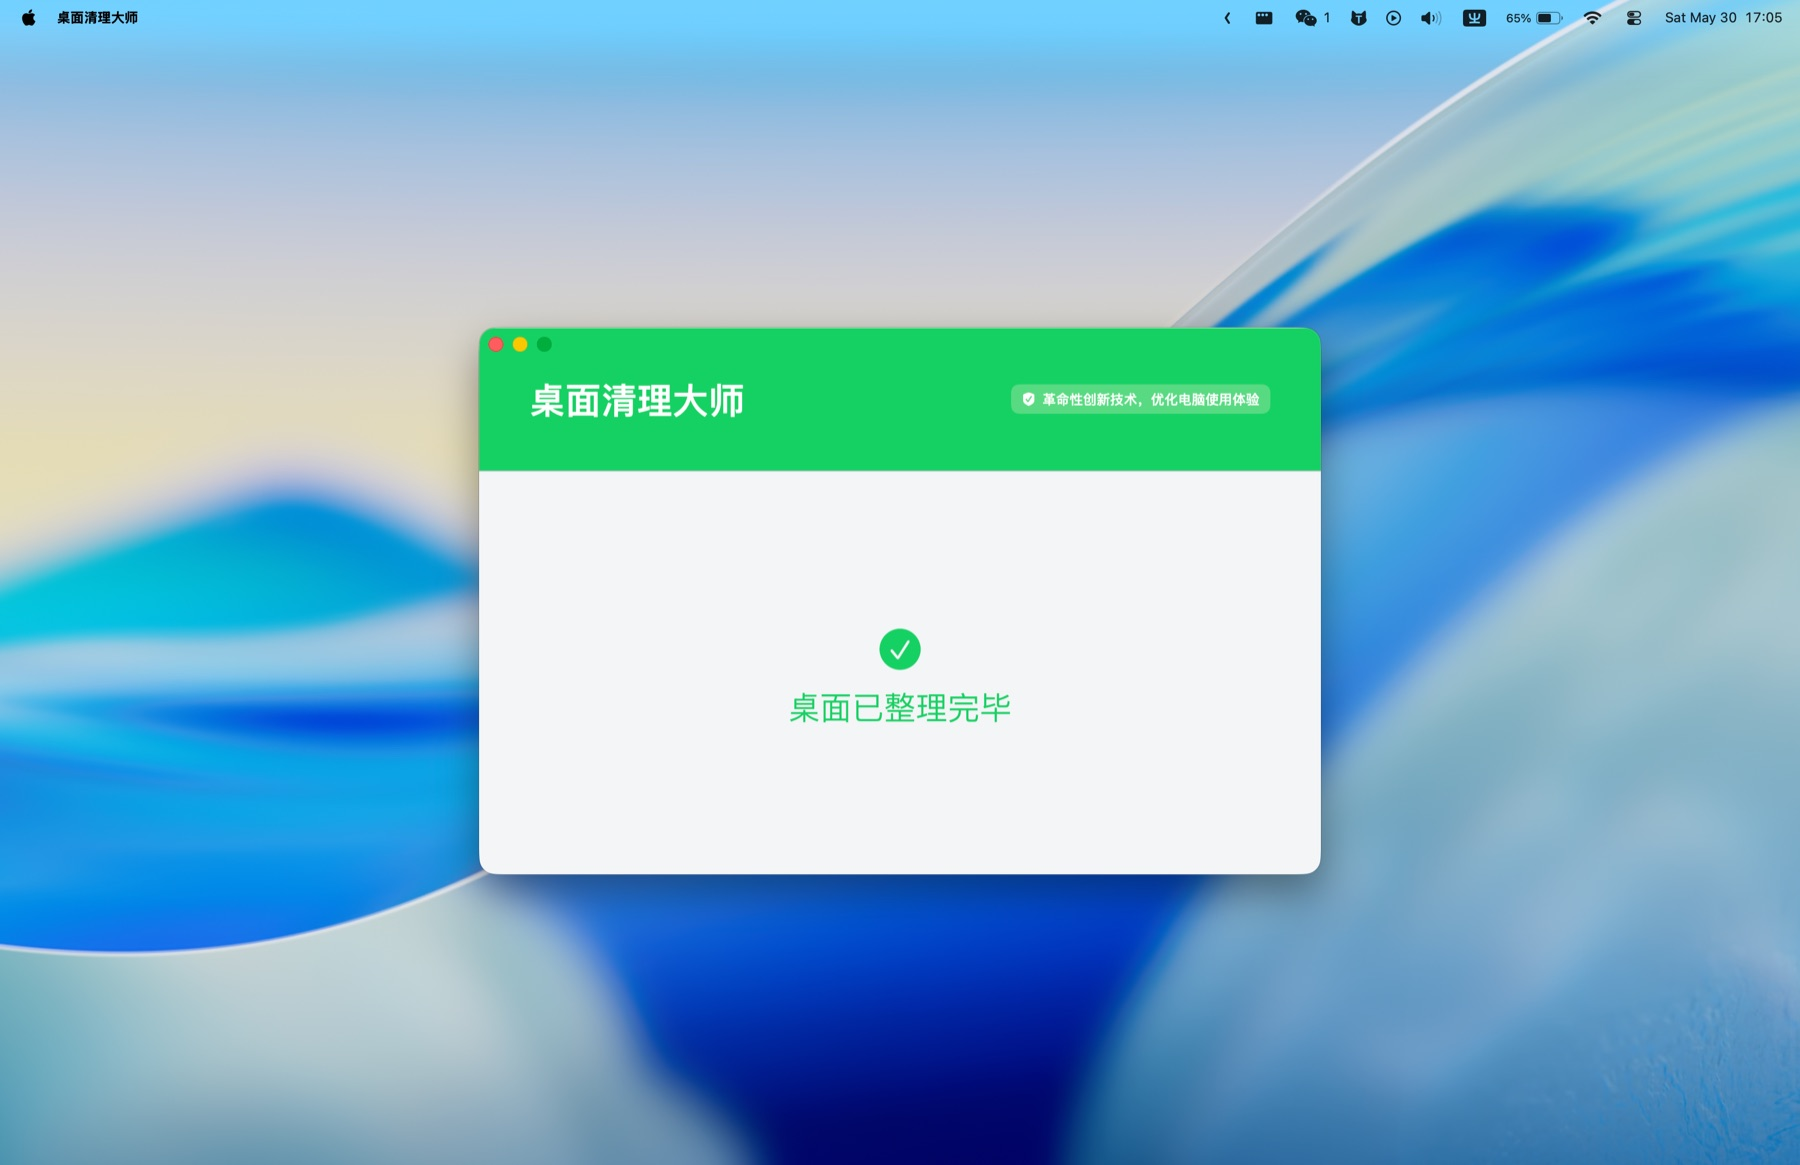
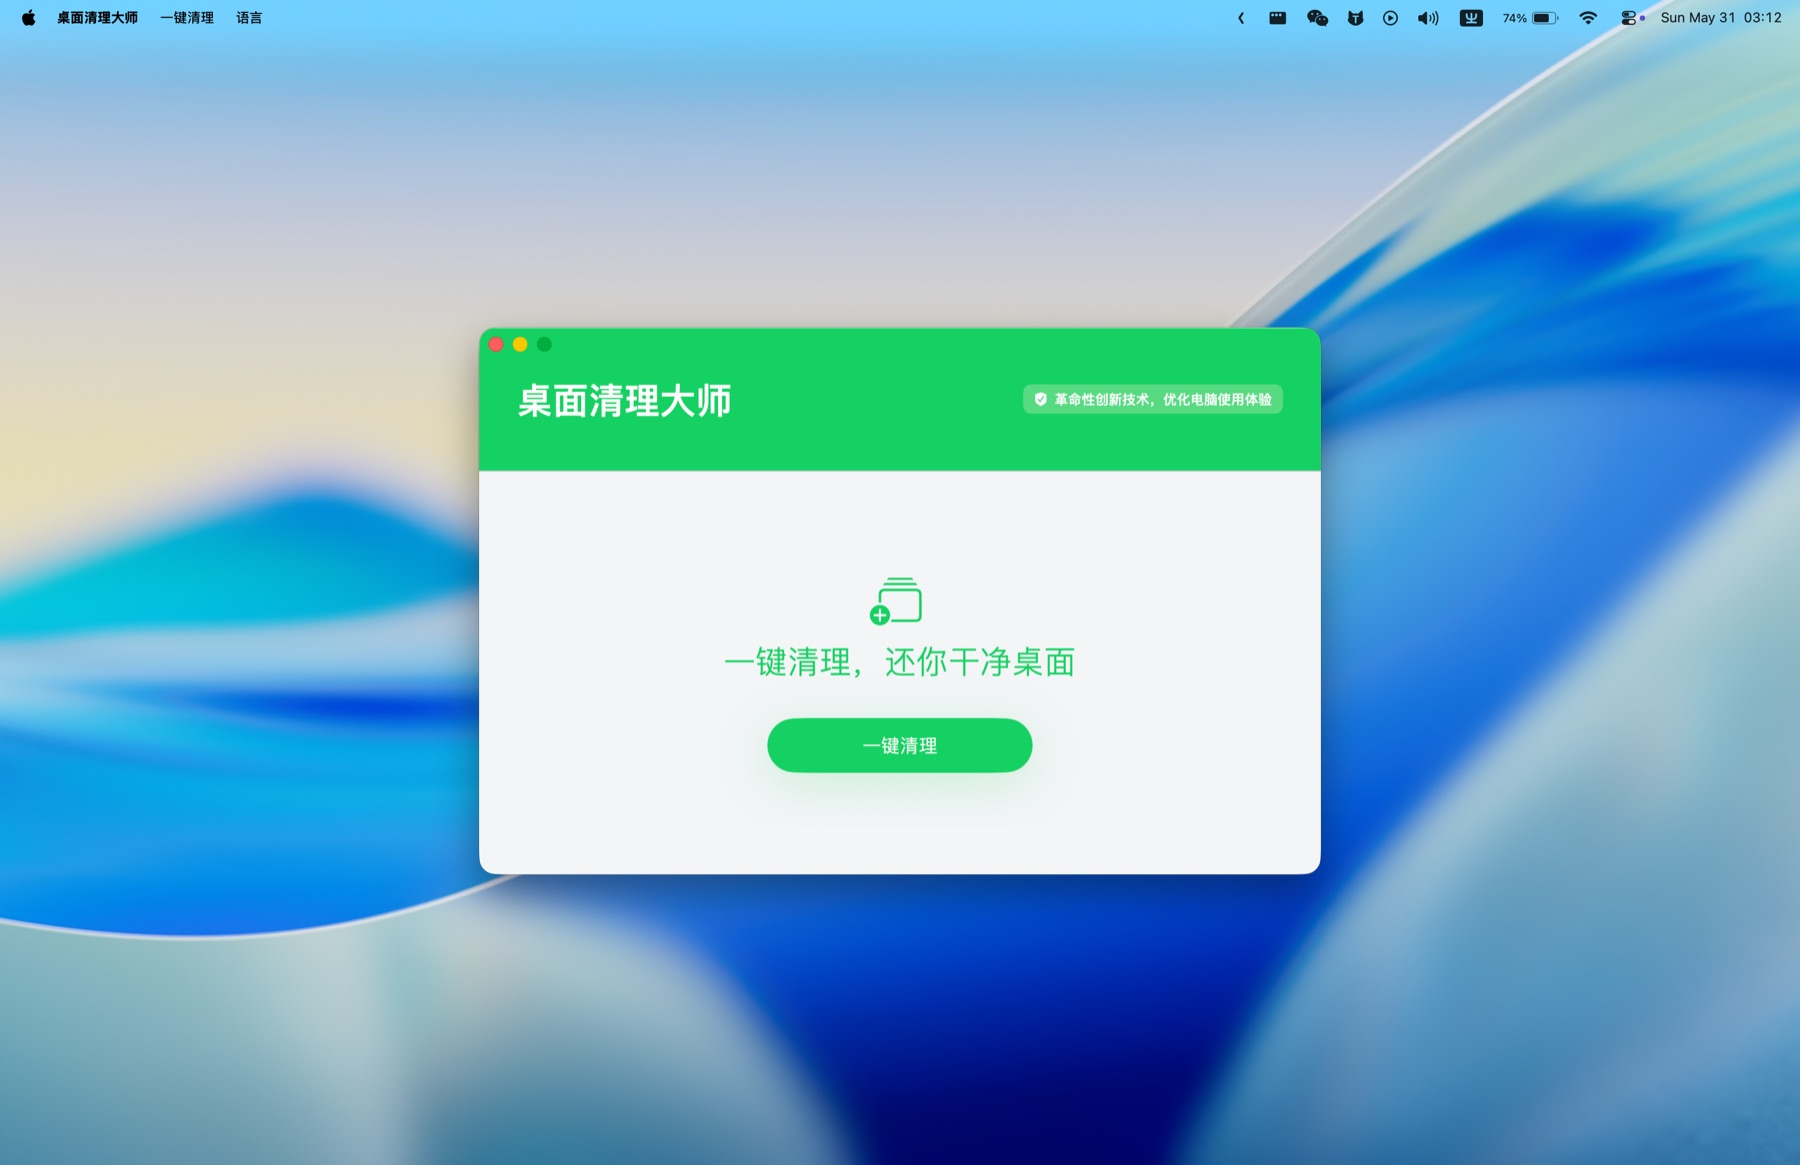
fix(app): preserve focus after cleanup
Restart Finder in the background, restore the app window after cleanup and restore flows, show the processed icon count in the completion state, and expand README packaging and permission notes with the refreshed screenshot.

diff --git a/Sources/DeskMagnetApp/AppLocalization.swift b/Sources/DeskMagnetApp/AppLocalization.swift
@@ -62,7 +62,7 @@ struct AppStrings: Equatable {
     let idleTitle: String
     let cleanButton: String
     let cleaningTitle: String
-    let attachedTitle: String
+    let attachedTitleFormat: String
     let restoringTitle: String
     let restoringSubtitle: String
     let failedTitle: String
@@ -89,7 +89,7 @@ struct AppStrings: Equatable {
                 idleTitle: "一键清理，还你干净桌面",
                 cleanButton: "一键清理",
                 cleaningTitle: "正在清理桌面...",
-                attachedTitle: "桌面已整理完毕",
+                attachedTitleFormat: "清理完成，已处理 %d 个图标",
                 restoringTitle: "正在恢复桌面",
                 restoringSubtitle: "图标和 Finder 设置会回到启动前",
                 failedTitle: "清理失败",
@@ -114,7 +114,7 @@ struct AppStrings: Equatable {
                 idleTitle: "一鍵清理，還你乾淨桌面",
                 cleanButton: "一鍵清理",
                 cleaningTitle: "正在清理桌面...",
-                attachedTitle: "桌面已整理完畢",
+                attachedTitleFormat: "清理完成，已處理 %d 個圖示",
                 restoringTitle: "正在恢復桌面",
                 restoringSubtitle: "圖示和 Finder 設定會回到啟動前",
                 failedTitle: "清理失敗",
@@ -139,7 +139,7 @@ struct AppStrings: Equatable {
                 idleTitle: "Clear your desktop in one click",
                 cleanButton: "Clean Desktop",
                 cleaningTitle: "Cleaning desktop...",
-                attachedTitle: "Desktop cleaned",
+                attachedTitleFormat: "Cleanup complete, processed %d icons",
                 restoringTitle: "Restoring desktop",
                 restoringSubtitle: "Icons and Finder settings return to the launch state",
                 failedTitle: "Cleanup failed",
@@ -164,7 +164,7 @@ struct AppStrings: Equatable {
                 idleTitle: "ワンクリックで、デスクトップをきれいに",
                 cleanButton: "一括整理",
                 cleaningTitle: "デスクトップを整理中...",
-                attachedTitle: "デスクトップを整理しました",
+                attachedTitleFormat: "整理完了、%d 個のアイコンを処理しました",
                 restoringTitle: "デスクトップを復元中",
                 restoringSubtitle: "アイコンと Finder 設定を起動前に戻します",
                 failedTitle: "整理に失敗しました",
@@ -189,7 +189,7 @@ struct AppStrings: Equatable {
                 idleTitle: "한 번에 정리하고 깨끗한 데스크톱으로",
                 cleanButton: "한 번에 정리",
                 cleaningTitle: "데스크톱 정리 중...",
-                attachedTitle: "데스크톱 정리 완료",
+                attachedTitleFormat: "정리 완료, 아이콘 %d개 처리됨",
                 restoringTitle: "데스크톱 복원 중",
                 restoringSubtitle: "아이콘과 Finder 설정이 실행 전 상태로 돌아갑니다",
                 failedTitle: "정리 실패",
@@ -208,6 +208,10 @@ struct AppStrings: Equatable {
                 permissionFootnote: "DeskMagnet 이 Finder 를 제어하도록 허용하세요"
             )
         }
+    }
+
+    func attachedTitle(iconCount: Int) -> String {
+        String(format: attachedTitleFormat, iconCount)
     }
 }
 

diff --git a/Tests/DeskMagnetCoreTests/P0WorkflowTests.swift b/Tests/DeskMagnetCoreTests/P0WorkflowTests.swift
@@ -55,6 +55,17 @@ struct P0WorkflowTests {
         }
         #expect(arrangementAttempts.count == 2)
     }
+
+    @Test("Finder restarts in background to preserve app focus")
+    func settingsManagerOpensFinderWithoutActivation() async throws {
+        let shell = RecordingShellRunner.arrangementSucceedsAfterRetry()
+        let manager = FinderSettingsManager(shell: shell)
+
+        try await manager.enterCompatibilityMode(snapshotURL: URL(fileURLWithPath: "/tmp/DeskMagnetTests/finder-before.plist"))
+
+        #expect(shell.commands.contains(["/usr/bin/open", "-g", "-a", "Finder"]))
+        #expect(!shell.commands.contains(["/usr/bin/open", "-a", "Finder"]))
+    }
 }
 
 private final class RecordingShellRunner: ShellRunning, @unchecked Sendable {

diff --git a/Sources/DeskMagnetApp/AppDelegate.swift b/Sources/DeskMagnetApp/AppDelegate.swift
@@ -1,6 +1,6 @@
 /**
  * [INPUT]: 依赖 AppKit/SwiftUI/Combine 创建 NSWindow 和主菜单，依赖 DeskMagnetCore.AppCoordinator 恢复未完成状态。
- * [OUTPUT]: 提供 AppDelegate，管理固定尺寸亮色主窗口、顶层应用/清理/语言菜单、启动居中、关闭自动恢复、启动恢复提示。
+ * [OUTPUT]: 提供 AppDelegate，管理固定尺寸亮色主窗口、顶层应用/清理/语言菜单、启动居中、清理后焦点恢复、关闭自动恢复、启动恢复提示。
  * [POS]: DeskMagnetApp 的生命周期控制器，连接 macOS 窗口事件与 DeskMagnetViewModel。
  * [PROTOCOL]: 变更时更新此头部，然后检查 CLAUDE.md
  */
@@ -55,6 +55,10 @@ final class AppDelegate: NSObject, NSApplicationDelegate, NSWindowDelegate {
             window.deskMagnetCenterOnMainScreen()
             window.delegate = self
             model.windowFrameProvider = { [weak window] in window?.deskMagnetFrame(converter: converter) }
+            model.focusRestorer = { [weak window] in
+                window?.makeKeyAndOrderFront(nil)
+                NSApplication.shared.activate(ignoringOtherApps: true)
+            }
             self.window = window
             self.viewModel = model
             configureMainMenu()

diff --git a/Sources/DeskMagnetApp/DeskMagnetViewModel.swift b/Sources/DeskMagnetApp/DeskMagnetViewModel.swift
@@ -1,6 +1,6 @@
 /**
  * [INPUT]: 依赖 Foundation、SwiftUI Observation、AppLocalization 和 DeskMagnetCore.AppCoordinator。
- * [OUTPUT]: 提供 DeskMagnetViewModel，暴露窗口状态、按钮动作、关闭恢复动作、拖动同步动作。
+ * [OUTPUT]: 提供 DeskMagnetViewModel，暴露窗口状态、按钮动作、关闭恢复动作、拖动同步动作和焦点恢复回调。
  * [POS]: DeskMagnetApp 的状态模型，隔离 UI 文案与核心 Finder 编排。
  * [PROTOCOL]: 变更时更新此头部，然后检查 CLAUDE.md
  */
@@ -21,6 +21,7 @@ final class DeskMagnetViewModel: ObservableObject {
     @Published private(set) var phase: Phase = .idle
     @Published private(set) var detailNote: String?
     var windowFrameProvider: (() -> WindowFrame?)?
+    var focusRestorer: (() -> Void)?
 
     private let coordinator: AppCoordinator
     private let languageStore: AppLanguageStore
@@ -116,6 +117,7 @@ final class DeskMagnetViewModel: ObservableObject {
             phase = .failed(languageStore.strings.windowPositionUnavailable)
             return
         }
+        defer { focusRestorer?() }
         phase = .working(0.25)
         do {
             let state = try await coordinator.attach(windowFrame: frame)
@@ -137,6 +139,7 @@ final class DeskMagnetViewModel: ObservableObject {
     }
 
     private func restoreDesktop() async -> Bool {
+        defer { focusRestorer?() }
         phase = .restoring
         do {
             _ = try await coordinator.restore()

diff --git a/Sources/DeskMagnetApp/ContentView.swift b/Sources/DeskMagnetApp/ContentView.swift
@@ -182,9 +182,9 @@ private struct StatusSection: View {
                 symbolName: "wand.and.stars",
                 color: DeskMagnetPalette.primary
             )
-        case .attached:
+        case let .attached(count):
             PhasePresentation(
-                title: strings.attachedTitle,
+                title: strings.attachedTitle(iconCount: count),
                 subtitle: "",
                 symbolName: "checkmark.circle.fill",
                 color: DeskMagnetPalette.primary

diff --git a/Sources/DeskMagnetCore/Automation/FinderSettingsManager.swift b/Sources/DeskMagnetCore/Automation/FinderSettingsManager.swift
@@ -1,5 +1,5 @@
 /**
- * [INPUT]: 依赖 ShellRunning 执行 defaults、osascript、open、pgrep，依赖轮询等待 Finder 状态。
+ * [INPUT]: 依赖 ShellRunning 执行 defaults、osascript、open -g、pgrep，依赖轮询等待 Finder 状态。
  * [OUTPUT]: 对外提供 FinderSettingsManager.snapshotFinderSettings()、enterCompatibilityMode(snapshotURL:)、restoreFinderSettings(snapshotURL:)。
  * [POS]: DeskMagnetCore 的 Finder 偏好生命周期管理器，保证修改前快照、失败后可恢复。
  * [PROTOCOL]: 变更时更新此头部，然后检查 CLAUDE.md
@@ -39,7 +39,7 @@ public final class FinderSettingsManager: Sendable {
     }
 
     private func openFinderAndWait() async throws {
-        _ = try await shell.checkedRun("/usr/bin/open", ["-a", "Finder"])
+        _ = try await shell.checkedRun("/usr/bin/open", ["-g", "-a", "Finder"])
         try await waitForFinder(running: true, timeout: 10)
     }
 

diff --git a/README.en.md b/README.en.md
@@ -23,6 +23,12 @@ DeskMagnet only changes Finder desktop icon display coordinates and temporary Fi
 
 On first real cleanup, macOS asks whether DeskMagnet may control Finder. If permission is denied, the app shows an Automation permission error. You can manage it later in System Settings -> Privacy & Security -> Automation.
 
+## Menus and Language
+
+The app follows the system language by default. You can also switch languages from the macOS menu bar: Simplified Chinese, Traditional Chinese, English, Japanese, and Korean.
+
+The cleanup action is exposed as its own top-level menu. The main app menu keeps Restore Desktop and Quit. If Finder steals focus during cleanup, the app brings its main window back when the operation finishes.
+
 ## Local Development
 
 ```bash
@@ -53,6 +59,24 @@ open build/DeskMagnet.app
 ```
 
 The current artifact is an ad-hoc signed `.app`, not an Apple Developer ID signed or notarized build. Public distribution still needs a Developer ID certificate, hardened runtime, `notarytool`, and stapler validation.
+
+## GitHub Runner Packaging
+
+GitHub Actions uses `.github/workflows/build.yml`. Regular pushes and pull requests only run `swift build --product DeskMagnetApp` and `swift test`.
+
+Only two paths create an `.app.zip` artifact:
+
+- Run the workflow manually with `workflow_dispatch`.
+- Push a `v*` tag, for example `v0.1.0`.
+
+The packaging job uploads a `DeskMagnet-macOS` artifact containing `DeskMagnet.app.zip`. CI and local builds share `Scripts/build-app.sh`, so a local packaging pass should match the Runner behavior.
+
+## Known Limitations
+
+- macOS only.
+- Artifacts are ad-hoc signed, without Developer ID signing or notarization.
+- The first real cleanup requires Finder Automation permission.
+- With many desktop icons, drag syncing is throttled and a final sync runs after the drag ends.
 
 ## Project Structure
 

diff --git a/CLAUDE.md b/CLAUDE.md
@@ -23,8 +23,8 @@ Tests/ - Swift Testing 测试代码 (1子目录: DeskMagnetCoreTests)
 <config>
 `.gitignore` - 忽略 SwiftPM 构建产物、macOS 元数据与 Xcode 用户状态
 Package.swift - SwiftPM 包定义，暴露 DeskMagnetCore library 与 deskmagnet executable
-README.md - 中文入口文档，说明产品边界、本地构建、运行方式与创意来源
-README.en.md - 英文入口文档，与 README.md 互链并说明产品边界、本地构建与创意来源
+README.md - 中文入口文档，说明产品边界、菜单语言、本地构建、Runner 打包、限制与创意来源
+README.en.md - 英文入口文档，与 README.md 互链并说明产品边界、菜单语言、本地构建、Runner 打包、限制与创意来源
 </config>
 
 架构决策:
@@ -52,5 +52,6 @@ P0 先做命令行验证器，不做 UI；Finder 真实副作用被 ShellRunning
 2026-05-30: 将 bundle 展示名改为“桌面清理大师”，并禁用窗口位置恢复以保证每次启动居中。
 2026-05-30: 补齐 macOS 应用菜单，一键清理/还原/退出接入现有动作，并加入中繁英日韩语言切换。
 2026-05-31: 将软件名纳入本地化，拆出顶层清理/语言菜单，新增英文 README 并补充创意来源说明。
[phone redacted]: README 补齐 Runner 打包、权限、菜单语言与已知限制；Finder 后台重启并在清理后恢复 App 焦点。
 
 法则: 极简·稳定·导航·版本精确

diff --git a/Sources/DeskMagnetApp/CLAUDE.md b/Sources/DeskMagnetApp/CLAUDE.md
@@ -2,11 +2,11 @@
 > L2 | 父级: /Users/luo/Desktop/ClaudeCode/web/DeskMagnet/Sources/CLAUDE.md
 
 成员清单
-AppDelegate.swift: AppKit 生命周期，创建固定 800x520 full-size 亮色主窗口、顶层应用/清理/语言菜单、禁用位置恢复并居中到主屏、让系统三按钮落入绿色顶栏、转换 Finder 顶左坐标、关闭时自动恢复、启动未恢复状态检测
+AppDelegate.swift: AppKit 生命周期，创建固定 800x520 full-size 亮色主窗口、顶层应用/清理/语言菜单、禁用位置恢复并居中到主屏、清理后恢复窗口焦点、让系统三按钮落入绿色顶栏、转换 Finder 顶左坐标、关闭时自动恢复、启动未恢复状态检测
 AppLocalization.swift: 本地化单一真相源，维护系统语言默认值、用户语言选择和中繁英日韩五套软件名/窗口/菜单文案
 ContentView.swift: SwiftUI 内容区，以单一绿色主色、1:4 顶栏/主体分区呈现本地化“桌面清理大师”工具面板，不暴露吸附实现
 DeskMagnetAppMain.swift: NSApplication 入口，设置 delegate 并启动事件循环
-DeskMagnetViewModel.swift: 主窗口状态模型，调用 AppCoordinator 执行吸附、关闭恢复、跟随同步并按当前语言呈现错误
+DeskMagnetViewModel.swift: 主窗口状态模型，调用 AppCoordinator 执行吸附、关闭恢复、跟随同步、焦点恢复并按当前语言呈现错误
 WindowFollowController.swift: 监听 NSWindow.didMoveNotification，将 AppKit 窗口坐标转为 Finder 桌面坐标，按图标数量动态节流并 final sync
 
 模块法则:

diff --git a/Sources/DeskMagnetCore/Automation/CLAUDE.md b/Sources/DeskMagnetCore/Automation/CLAUDE.md
@@ -5,7 +5,7 @@
 AppleScriptEscaper.swift: AppleScript 字符串字面量转义，处理 Finder item 名称中的引号与反斜杠
 FinderIconController.swift: Finder 桌面图标 I/O，读取 item 坐标、批量移动、校验多数坐标有效
 FinderIconScript.swift: Finder AppleScript 构造器，生成读取、移动、自由排列、退出 Finder 脚本
-FinderSettingsManager.swift: Finder 偏好生命周期，导出快照、进入兼容模式、恢复原始设置
+FinderSettingsManager.swift: Finder 偏好生命周期，导出快照、后台重启 Finder 进入兼容模式、恢复原始设置
 ShellRunner.swift: 系统命令边界，封装 Process 执行并允许测试替换
 
 边界法则: